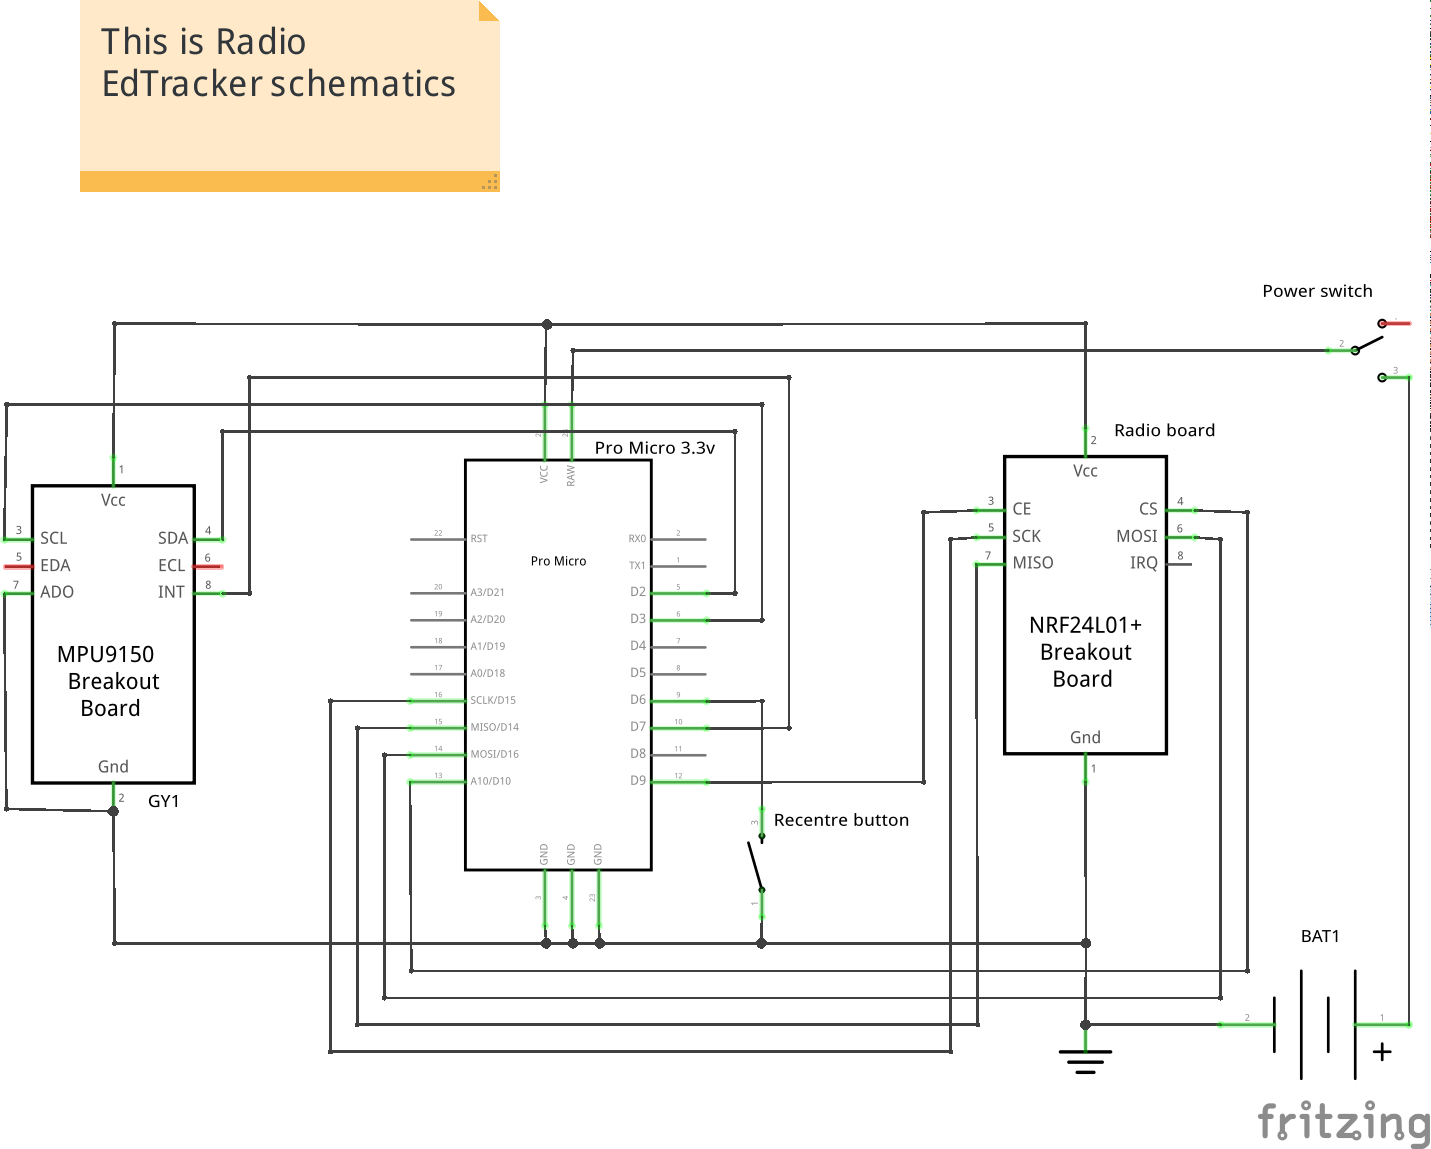
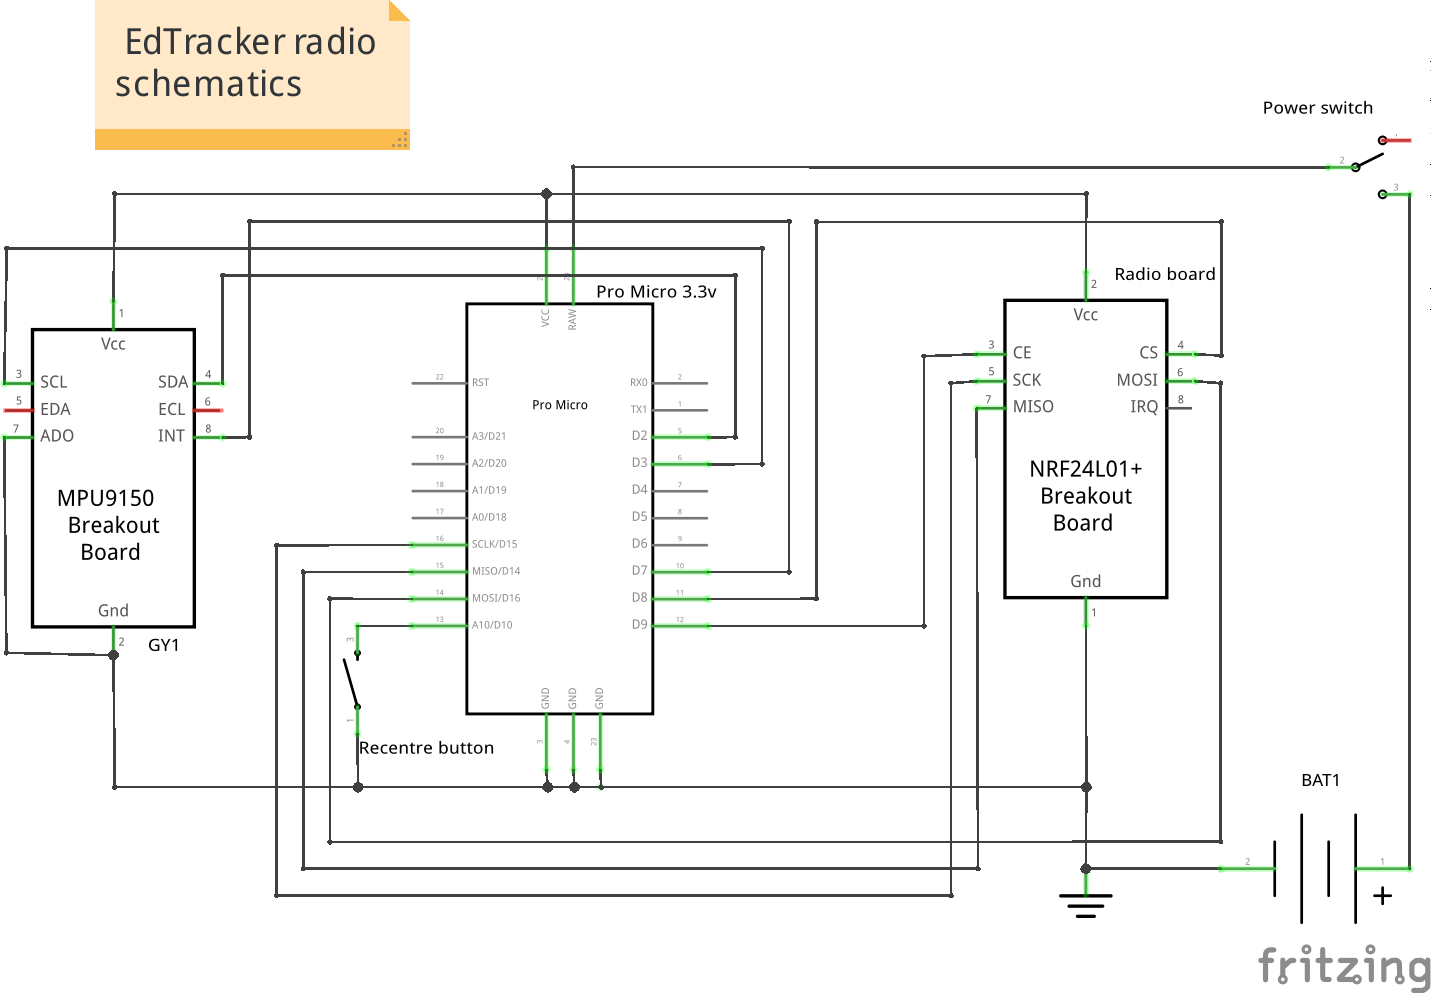
resolved the magnetic compass issue by moving the radio breakout board away from the MPU also changed the recentre button pin back to 10, and the radio cs pin to 8, so that the existing EDtrackers can be upgraded by just soldering in the NRF24L01 breakout board

diff --git a/edtracker.libs/InvensenseMotionDriver/inv_mpu.c b/edtracker.libs/InvensenseMotionDriver/inv_mpu.c
@@ -1401,16 +1401,20 @@ int mpu_set_compass_sample_rate(unsigned short rate)
 {
 #ifdef AK89xx_SECONDARY
     unsigned char div;
-    if (!rate || rate > st.chip_cfg.sample_rate || rate > MAX_COMPASS_SAMPLE_RATE)
+    if (!rate )
         return -1;
+    if ( rate > st.chip_cfg.sample_rate )
+        return -2;
+    if ( rate > MAX_COMPASS_SAMPLE_RATE)
+        return -3;
 
     div = st.chip_cfg.sample_rate / rate - 1;
     if (i2c_write(st.hw->addr, st.reg->s4_ctrl, 1, &div))
-        return -1;
+        return -4;
     st.chip_cfg.compass_sample_rate = st.chip_cfg.sample_rate / (div + 1);
     return 0;
 #else
-    return -1;
+    return -5;
 #endif
 }
 
